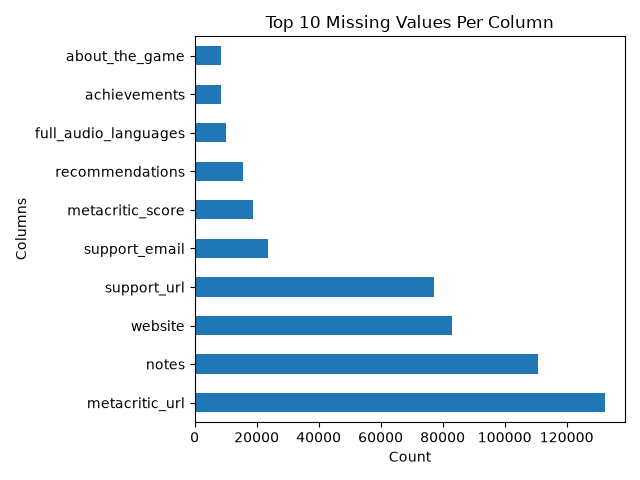
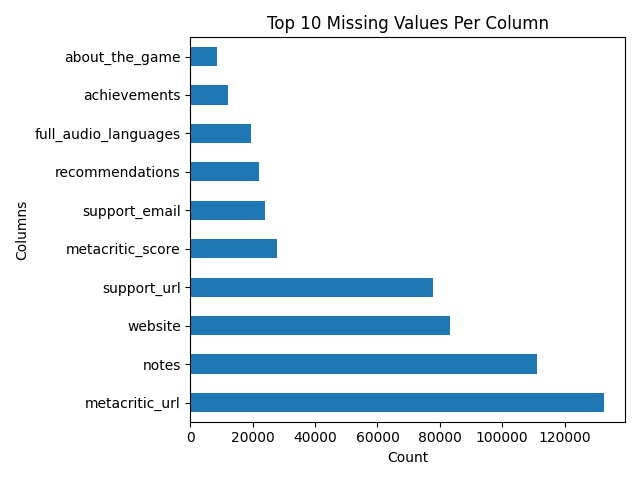
Refactor EDA: modular plots, fav-score & reports
Refactor EDA pipeline and add business-focused visualizations and scoring.

Key changes:
- Major refactor of src/eda.py: added numpy import, renamed column_to_dict_converter -> extract_literal_values, and extracted modular plotting helpers (plot_missing_values, plot_actual_favourites, plot_top_fav_genres, plot_most_common_categories, business_observations_report, save_figure).
- Implemented parsing of estimated_owners, Wilson lower-bound rating, normalization and combined fav_score to rank favourite games.
- Replaced several old charts with new outputs (new PNGs added, some older PNGs removed) and updated corr_heatmap.png.
- Updated outputs/reports/business_observation.md content to reflect new findings and pipeline.
- Updated src/main.py to call additional EDA analysis methods and use the refactored workflow.

These changes improve readability, reuse, and produce new business artifacts (ranked favourites and updated reports).

diff --git a/src/eda.py b/src/eda.py
@@ -2,6 +2,7 @@ import pandas as pd
 import matplotlib.pyplot as plt
 import seaborn as sns
 import ast
+import numpy as np
 
 class EDA:
 
@@ -61,7 +62,6 @@ class EDA:
     def analyse_target_variables(self):
 
         cols = ['positive', 'negative', 'price', 'achievements', 'peak_ccu', 'average_playtime_forever']
-
         for col in cols:
             balance = self.df[col].value_counts(normalize=True)
             skew = self.df[col].skew()
@@ -69,6 +69,7 @@ class EDA:
             print(f'\nBalance:')
             print(balance.head(10))
             print(f'\nSkew:{skew:.2f}')
+
 
 
     def correlation_matrix(self, path: str):
@@ -83,7 +84,7 @@ class EDA:
         plt.show()
 
 
-    def column_to_dict_converter(self, column_name: str) -> dict:
+    def extract_literal_values(self, column_name: str) -> dict:
         self.df[f'{column_name}_literal'] = self.df[column_name].apply(lambda x: tuple(ast.literal_eval(x)))
         values = self.df[f'{column_name}_literal'].value_counts()
 
@@ -97,97 +98,135 @@ class EDA:
                         else:
                             values_dict[val] = 1
 
-        print('\n', column_name)
-        print(values_dict)
         return values_dict
+
+    def parse_average_owners(self, owner_string: str):
+        # owner_string = str(owner_numbers)
+        owner_substrings = owner_string.split(' - ')
+        if len(owner_substrings) > 1 and owner_substrings[0] and owner_substrings[1]:
+            floor_count = int(owner_substrings[0])
+            ceiling_count = int(owner_substrings[1])
+            avg_owners = (floor_count + ceiling_count) / 2
+            return np.log1p(avg_owners)
+
+
+    def wilson_lower_bound(self, pos, neg, z=1.96):
+        n = pos + neg
+        if n == 0:
+            return 0
+        p = pos / n
+        return (p + z**2/(2*n) - z * np.sqrt((p*(1-p) + z**2/(4*n)) / n)) / (1 + z**2/n)
+
+    def save_figure(self, path: str):
+        plt.tight_layout()
+        plt.savefig(path)
+        plt.show()
 
 
     def business_observations_visualizations(self, path: str):
 
         ## Key business observations for columns Tag, Developers, Publishers and Categories
-        tags = self.column_to_dict_converter('tags')
+        tags = self.extract_literal_values('tags')
         tags = dict(sorted(tags.items(), key=lambda x: x[1], reverse=True))
+        print('\nMost Common Tags: ', list(tags.keys())[:20])
 
-        developers = self.column_to_dict_converter('developers')
+        developers = self.extract_literal_values('developers')
         developers = dict(sorted(developers.items(), key=lambda x: x[1], reverse=True))
+        print('\nMost Common Developers: ', list(developers.keys())[:20])
 
-        publishers = self.column_to_dict_converter('publishers')
+        publishers = self.extract_literal_values('publishers')
         publishers = dict(sorted(publishers.items(), key=lambda x: x[1], reverse=True))
+        print('\nMost Common Publishers: ', list(publishers.keys())[:20])
 
-        categories = self.column_to_dict_converter('categories')
-        categories = dict(sorted(categories.items(), key=lambda x: x[1], reverse=True))
+        self.plot_missing_values(path)
+        estimated_owners_games = self.plot_actual_favourites(path)
+        self.plot_top_fav_genres(path, estimated_owners_games)
+        self.plot_most_common_categories(path)
+        self.business_observations_report(path)
 
-        ##Visualization of Top 20 Genres with highest ratings (+ive or -ive)
-        ratings_by_genres = self.df[['genres', 'positive', 'negative']].copy()
-        ratings_by_genres['sum_of_all_ratings'] = ratings_by_genres['positive'] + ratings_by_genres['negative']
-        ratings_by_genres = ratings_by_genres.sort_values(by='sum_of_all_ratings', ascending=False)
-        ratings_by_genres['avg_ratings'] = round(100 * ratings_by_genres['positive'] / (ratings_by_genres['positive'] + ratings_by_genres['negative']), 2)
 
-        ratings_by_genres['genres'] = ratings_by_genres['genres'].apply(lambda x: tuple(ast.literal_eval(x)))
-        ratings_by_genres = ratings_by_genres[ratings_by_genres['genres'].apply(lambda x: len(x) > 0 and not isinstance(x[0], dict))]
-        ratings_per_genre = ratings_by_genres.explode('genres').groupby('genres')['avg_ratings'].median().sort_values(ascending=False)
 
-        ax = ratings_per_genre.head(20).plot.bar()
+    def plot_top_fav_genres(self, path, estimated_owners_games):
+        #top genres based on actual favourites
+        estimated_owners_games['genres'] = estimated_owners_games['genres'].apply(lambda x: tuple(ast.literal_eval(x)))
+        estimated_owners_games['categories'] = estimated_owners_games['categories'].apply(lambda x: tuple(ast.literal_eval(x)))
+
+        estimated_owners_games = estimated_owners_games[estimated_owners_games['genres'].apply(lambda x: len(x) > 0 and not isinstance(x[0], dict))]
+        estimated_owners_games = estimated_owners_games[estimated_owners_games['categories'].apply(lambda x: len(x) > 0 and not isinstance(x[0], dict))]
+
+        fav_per_genre = estimated_owners_games.explode('genres').groupby('genres')['fav_score'].median().sort_values(ascending=False)
+        fav_per_category = estimated_owners_games.explode('categories').groupby('categories')['fav_score'].median().sort_values(ascending=False)
+
+        ax = fav_per_genre.head(20).plot.bar()
         ax.set_xlabel('Genres')
-        ax.set_ylabel('Average Ratings')
-        ax.set_title('Top Genres')
+        ax.set_ylabel('Fav Score')
+        ax.set_title('Top Favourite Genres')
         ax.tick_params(axis='x', labelsize=8)
-        plt.tight_layout()
-        plt.savefig(f'{path}/figures/EDA_Top_Genres.png')
-        plt.show()
+        self.save_figure(f'{path}/figures/EDA_Top_Favourite_Genres.png')
 
-        ##Visualization of median playtime forever
-        playtime = self.df[['median_playtime_forever', 'name']].copy()
-        playtime = playtime.sort_values(by='median_playtime_forever', ascending=False).head(20)
+        ax = fav_per_category.head(20).plot.bar()
+        ax.set_xlabel('Categories')
+        ax.set_ylabel('Fav Score')
+        ax.set_title('Top Favourite Categories')
+        ax.tick_params(axis='x', labelsize=8)
+        self.save_figure(f'{path}/figures/EDA_Top_Favourite_Categories.png')
 
-        plt.barh(playtime['name'], playtime['median_playtime_forever'])
-        plt.xlabel('Median Playtime')
-        plt.ylabel('Game')
-        plt.title('Top Played Games')
-        plt.tight_layout()
-        plt.savefig(f'{path}/figures/EDA_Top_PlayedGames.png')
-        plt.show()
+    def business_observations_report(self, path):
+        with open(f'{path}/reports/business_observation.md', 'w', encoding='utf-8') as file:
+            file.write(f"""
+A correlation matrix created for a few selected columns provides a great picture where ratings are closely associated with recommendations and peak CCU, but almost not at all with playtime.
 
+Among missing values, metacritic_url has the most missing values which means the metacritic score cannot unfortunately be used in figuring out the most played, most loved games in this dataset.
+
+There are 2 separate columns for ratings, one for positive and the other for negative, which can be combined or used separately to calculate the best games and the worst.
+
+There are separate columns for tags, genres and categories, which means we can do a more elaborate judgement on what all does one need for making a great game.
+
+On applying some log calculations and wilson score to the average of positive and negative reviews along with average number of owners per game, Crab Game and Black Myth: Wukong turn out to be most favourite at the moment.
+Top genres include keywords such as Web Publishing, Photo Editing, Action, Indie, RPG, etc. along with training, design and production tools, as well as, interestingly, nudity & sexual content.
+
+The top most category by far is any game that has Valve's Anti-Cheat enabled. This is followed by Steam's trading cards and remote play on tablet. There are multiple remote playing, VR and Steam associated features included.
+On the other hand, if you see Most Common Categories, they do match with the Top Categories somewhere, but not so much. This means that all the top games abide very much by the frameworks set by Steam.
+            """)
+
+    def plot_most_common_categories(self, path):
+        #most common categories
+        categories = self.extract_literal_values('categories')
+        categories = dict(sorted(categories.items(), key=lambda x: x[1], reverse=True))
+        print('\nMost Common Tags: ', list(categories.keys())[:20])
+        categories = dict(sorted(categories.items(), key=lambda x: x[1], reverse=True)[:20])
+        plt.barh(list(categories.keys()), list(categories.values()))
+        plt.xlabel('Categories')
+        plt.ylabel('Count')
+        plt.title('Most Common Categories')
+        self.save_figure(f'{path}/figures/EDA_Most_Common_Categories.png')
+
+    def plot_missing_values(self, path):
         #missing values
         missing_values = self.df.isnull().sum().sort_values(ascending=False).head(10)
         ax = missing_values.plot.barh()
         ax.set_xlabel('Count')
         ax.set_ylabel('Columns')
         ax.set_title('Top 10 Missing Values Per Column')
-        plt.tight_layout()
-        plt.savefig(f'{path}/figures/EDA_Columns_Missing_Values.png')
-        plt.show()
+        self.save_figure(f'{path}/figures/EDA_Columns_Missing_Values.png')
 
-        #top categories
-        categories = dict(sorted(categories.items(), key=lambda x: x[1], reverse=True)[:20])
-        plt.barh(list(categories.keys()), list(categories.values()))
-        plt.xlabel('Categories')
-        plt.ylabel('Count')
-        plt.title('Top Categories')
+    def plot_actual_favourites(self, path):
+        #Visualizing actual favourite games.
+        estimated_owners_games = self.df[['name', 'estimated_owners', 'genres', 'categories', 'positive', 'negative', 'median_playtime_2weeks']].copy()
+        estimated_owners_games['estimated_owners_log'] = estimated_owners_games['estimated_owners'].astype("string").apply(lambda x: self.parse_average_owners(x))
+        estimated_owners_games['avg_ratings'] = estimated_owners_games.apply(lambda x: self.wilson_lower_bound(x['positive'], x['negative']), axis=1)
+        # estimated_owners_games['avg_ratings'] = round(100 * estimated_owners_games['positive'] / (estimated_owners_games['positive'] + estimated_owners_games['negative']), 2)
+        estimated_owners_games['avg_ratings_log'] = np.log1p(estimated_owners_games['avg_ratings'])
+        estimated_owners_games['median_playtime_2weeks_log'] = np.log1p(estimated_owners_games['median_playtime_2weeks'])
 
-        plt.tight_layout()
-        plt.savefig(f'{path}/figures/EDA_Top_Categories.png')
-        plt.show()
-
-        with open(f'{path}/reports/business_observation.md', 'w', encoding='utf-8') as file:
-            file.write(f"""
-
-Some of the most common tags are as follows:
-{list(tags.keys())[:5]}
-
-The most common developers on the list are:
-{list(developers.keys())[:5]}
-
-While the most common publishers are:
-{list(publishers.keys())[:5]}
-
-A correlation matrix created for a few selected columns provides a great picture where ratings are closely associated with recommendations and peak CCU, but almost not at all with playtime.
-
-In other observations, the first figure in the visualization shows the top 20 genres, with the top genre containing {list(ratings_per_genre.keys())[0]} as it's keyword.
-
-In top played games, in the next visualization, {playtime['name'].iloc[0]} has the highest playtime at {playtime['median_playtime_forever'].iloc[0]}
-
-Coming to the point of missing values {missing_values.iloc[0]} has the highest missing values
-
-Lastly, the top categories are shows in the last visualization with, {next(iter(categories))} as the top one.
-            """)
+        for col in ['estimated_owners_log', "avg_ratings_log", 'median_playtime_2weeks_log']:
+            estimated_owners_games[col + '_norm'] = (estimated_owners_games[col] - estimated_owners_games[col].min()) / (estimated_owners_games[col].max() - estimated_owners_games[col].min())
+        
+        estimated_owners_games['fav_score'] = estimated_owners_games['avg_ratings_log_norm'] * 0.4 + estimated_owners_games['estimated_owners_log_norm'] * 0.4 + estimated_owners_games['median_playtime_2weeks_log_norm'] * 0.2
+        estimated_owners_games = estimated_owners_games.sort_values(by='fav_score', ascending=False)
+        plot = estimated_owners_games.head(20).plot.barh(x='name', y='fav_score')
+        plot.set_xlabel('Name')
+        plot.set_ylabel('Fav Score')
+        plot.set_title('Most Favourite Games')
+        self.save_figure(f'{path}/figures/EDA_Most_Favourite_Games.png')
+        return estimated_owners_games

diff --git a/src/main.py b/src/main.py
@@ -12,10 +12,11 @@ def main():
     data_profiler.profile(df)
 
     eda = EDA(df)
-    # eda.analyse_numeric_overview()
-    # eda.analyse_missing_data()
-    # eda.analyse_duplicate_data()
-    # eda.analyse_target_variables()
+    eda.analyse_numeric_overview()
+    eda.analyse_categorical_data()
+    eda.analyse_missing_data()
+    eda.analyse_duplicate_data()
+    eda.analyse_target_variables()
     eda.correlation_matrix(str(OUTPUT_DIR))
     eda.business_observations_visualizations(str(OUTPUT_DIR))
     

diff --git a/outputs/reports/business_observation.md b/outputs/reports/business_observation.md
@@ -1,21 +1,15 @@
 
-
-Some of the most common tags are as follows:
-['Singleplayer', 'Indie', 'Action', 'Casual', 'Adventure']
-
-The most common developers on the list are:
-['Tero Lunkka', 'ESAT', 'Square Enix', 'Valkeala Software', 'Jordan Freeman Group']
-
-While the most common publishers are:
-['Gamersky Games', 'PlayWay S.A.', 'WhisperGames', 'Gamirror Games', 'Plug In Digital']
-
 A correlation matrix created for a few selected columns provides a great picture where ratings are closely associated with recommendations and peak CCU, but almost not at all with playtime.
 
-In other observations, the first figure in the visualization shows the top 20 genres, with the top genre containing 360 Video as it's keyword.
+Among missing values, metacritic_url has the most missing values which means the metacritic score cannot unfortunately be used in figuring out the most played, most loved games in this dataset.
 
-In top played games, in the next visualization, Avem33 has the highest playtime at 3429544
+There are 2 separate columns for ratings, one for positive and the other for negative, which can be combined or used separately to calculate the best games and the worst.
 
-Coming to the point of missing values 132206 has the highest missing values
+There are separate columns for tags, genres and categories, which means we can do a more elaborate judgement on what all does one need for making a great game.
 
-Lastly, the top categories are shows in the last visualization with, Single-player as the top one.
+On applying some log calculations and wilson score to the average of positive and negative reviews along with average number of owners per game, Crab Game and Black Myth: Wukong turn out to be most favourite at the moment.
+Top genres include keywords such as Web Publishing, Photo Editing, Action, Indie, RPG, etc. along with training, design and production tools, as well as, interestingly, nudity & sexual content.
+
+The top most category by far is any game that has Valve's Anti-Cheat enabled. This is followed by Steam's trading cards and remote play on tablet. There are multiple remote playing, VR and Steam associated features included.
+On the other hand, if you see Most Common Categories, they do match with the Top Categories somewhere, but not so much. This means that all the top games abide very much by the frameworks set by Steam.
             
